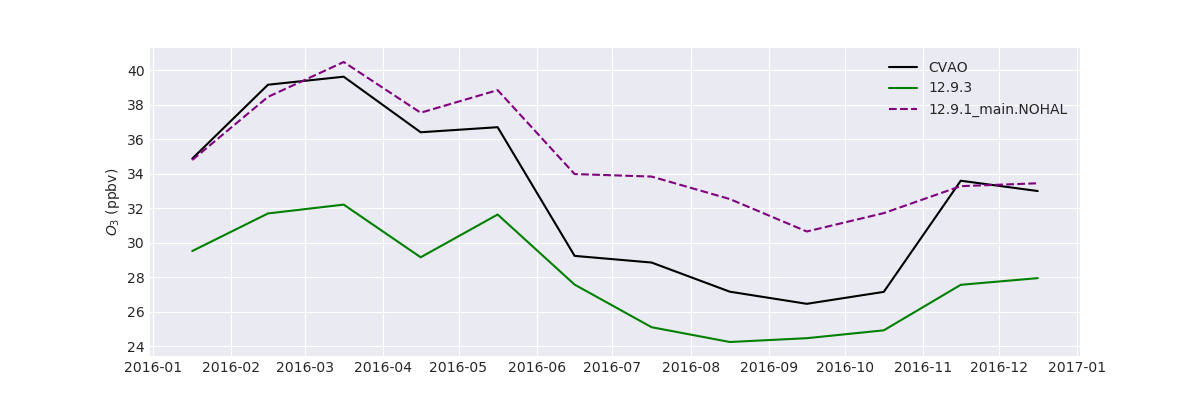
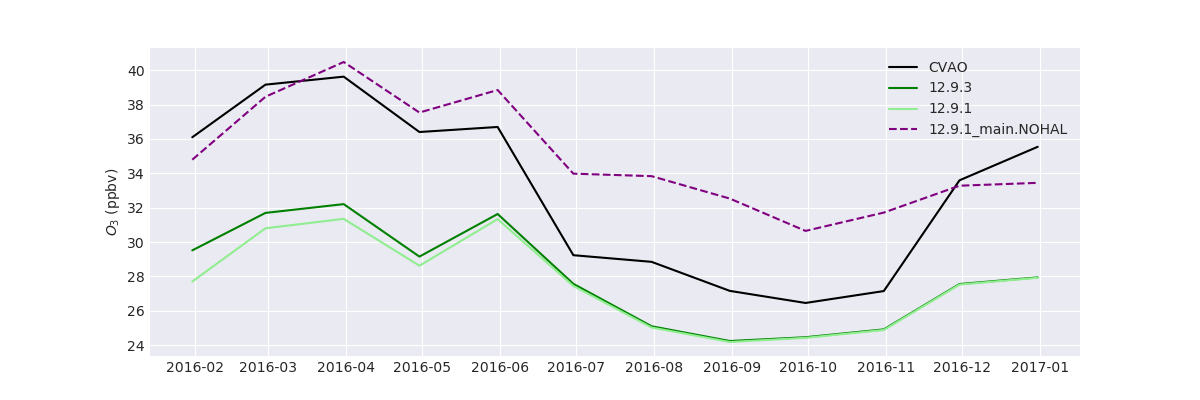
Updated nohals plots

diff --git a/nohals/timeseries_nohal.py b/nohals/timeseries_nohal.py
@@ -24,11 +24,11 @@ try:
     variable=inputs.var
     print('ok')
 except:
-    variable='ClO'
+    variable='O3'
 version='12.9.3'
 
 var, lat, lon, lev, time = GC.get_gc_var(rundir='tropchem_merra_4x5', variable=variable,year='2016')
-
+T91, lat,lon,lev,Ttime = GC.get_gc_var(rundir='tropchem_merra_4x5', variable=variable, version='12.9.1',year='2016')
 nohal, lat,lon,lev,haltime = GC.get_gc_var(rundir='tropchem_merra_4x5', variable=variable, version='geos-chem',year='2016')
 
 delta,interval=GC.find_timestep(time)
@@ -36,24 +36,34 @@ y = rp.find_nearest(lat, 16.9)
 x = rp.find_nearest(lon, -24.9)
 print(lon[x], lat[y])
 
-var_time=[] ; nohal_time=[] ; var1=[]
+var_time=[] ; nohal_time=[] ; T91_time=[] ; var1=[]
 for t in range(len(time)):
     v=var[t,0,y,x]
     var_time.append(v)
+
+for t in range(len(Ttime)):
+    v=T91[t,0,y,x]
+    T91_time.append(v)
 
 for t in range(len(haltime)):
     v=nohal[t,0,y,x]
     nohal_time.append(v)
 
 gc=pd.DataFrame({'Value':var_time}, index=time)
+T91=pd.DataFrame({'Value':T91_time}, index=Ttime)
 nohal=pd.DataFrame({'Value':nohal_time}, index=haltime)
 
 print(gc)
+print(T91)
 print(nohal)
+gc=gc.resample('M').mean()
+T91=T91.resample('M').mean()
+nohal=nohal.resample('M').mean()
 
 
 ## Get Merge observations
 try:
+    print('here')
     df=CV.get_from_merge(d[variable])
     df=df[gc.index[0]:gc.index[-1]]
     df=df.resample(delta).mean()
@@ -61,17 +71,19 @@ try:
     f,ax= plt.subplots(figsize=(12,4))
     ax.plot(gc.index, df.Value, 'k', label='CVAO')
     ax.plot(gc.index, gc.Value, 'g', label='12.9.3')
+    ax.plot(gc.index, T91.Value, 'lightgreen', label='12.9.1')
     ax.plot(gc.index, nohal.Value, 'purple',linestyle='--', label='12.9.1_main.NOHAL')
     plt.ylabel('%s (%s)' % (d[variable]['abbr'], d[variable]['unit']) )
 
     plt.gca().xaxis.set_major_locator(mdates.MonthLocator(interval=1))
-
+    print('here')
     plt.legend()
     plt.savefig('./plots/timeseries_%s.png' %variable )
 
 except:
     f,ax= plt.subplots(figsize=(12,4))
     ax.plot(gc.index, gc.Value, 'g', label='12.9.3')
+    ax.plot(gc.index, T91.Value, 'lightgreen', label='12.9.1')
     ax.plot(gc.index, nohal.Value, 'purple',linestyle='--', label='12.9.1_main.NOHAL')
     plt.ylabel('%s'  %variable ) #' % (d[variable]['abbr'], d[variable]['unit']) )
 

diff --git a/postprocess/HEMCO_Diag.py b/postprocess/HEMCO_Diag.py
@@ -21,7 +21,7 @@ from CVAO_dict import CVAO_dict as d
 import RowPy as rp
 import GC_tools as GC
 
-rundir='old_ceds_tropchem_merra_4x5'
+rundir='boundary_conds_run'
 version='12.9.3'
 variables=['EmisCO_BioBurn', 'EmisCO_Total']
 
@@ -31,13 +31,13 @@ times=[]
 
 
 #emissions, time, lat, lon, lev, area = GC.HEMCO_Diag_read(rundir='tropchem_merra_4x5', version=version,variable='EmisCO_Total')
-old_emissions, time, lat, lon, lev, area = GC.HEMCO_Diag_read(rundir='old_ceds_tropchem_merra_4x5', version=version,variable='EmisCO_Total')
-print(emissions.sum())
-print(old_emissions.sum())
+#old_emissions, time, lat, lon, lev, area = GC.HEMCO_Diag_read(rundir=rundir, version=version,variable='EmisCO_Total')
+#print(emissions.sum())
+#print(old_emissions.sum())
 
-sys.exit()
+#sys.exit()
 
-for infile in sorted(glob.glob('/users/mjr583/scratch/GC/%s/rundirs/%s/OutputDir/HEMCO_diag*.nc' % (version, rundir))):
+for infile in sorted(glob.glob('/users/mjr583/scratch/GC/%s/rundirs/%s/OutputDir/HEMCO_diagnostics.201701010000.nc' % (version, rundir))):
     fh=Dataset(infile)
     time=fh.variables['time'][:]
     lat=fh.variables['lat'][:]
@@ -111,15 +111,15 @@ for var in names:
             continue
         plt.scatter(df[str(year)].index.month, df.Value[str(year)], label=str(year))
     plt.legend()
-    plt.savefig('./test.png')
-    plt.close()
-    sys.exit()
+    #plt.savefig('./test.png')
+    #plt.close()
+    #sys.exit()
 
 
     f,ax= plt.subplots(figsize=(12,4))
     ax.plot(times, ems, 'orchid', label=long_name)
     plt.ylabel(unit)
     plt.legend()
-    #plt.savefig('/users/mjr583/scratch/GC/%s/%s/emissions/%s.png' % (version, rundir, long_name) )
+    plt.savefig('./plots/%s_%s.png' % (rundir, long_name) )
     plt.close()
 

diff --git a/interhemispheric_mixing/boundaryconds_timeseries.py b/interhemispheric_mixing/boundaryconds_timeseries.py
@@ -39,7 +39,7 @@ variables=['CO','O3','C2H6','NO2','NO']
 labels=['Control','No BB','No African BB']
 bc = '/users/mjr583/scratch/GC/12.9.3/rundirs/irma_025x03125/GC_BC/'
 bc_nobb = '/users/mjr583/scratch/GC/12.9.3/rundirs/irma_025x03125_noBB/GC_BC/'
-bc_noaf = '/users/mjr583/scratch/GC/12.9.3/rundirs/irma_025x03125_noAfrBB/GC_BC/'
+bc_noaf = '/users/mjr583/scratch/GC/12.9.3/rundirs/irma_025x03125_noAfBB/GC_BC/'
 
 x = -24.9
 y = 16.9
@@ -48,7 +48,7 @@ CO=[] ; times=[]
 for var in variables:
     print(var)
     CO=[] ; times=[]
-    for infile in sorted(glob.glob('%s*Boundary*201708*z.nc4' %bc)):
+    for infile in sorted(glob.glob('%s*Boundary*201708*control.nc4' %bc)):
         print(infile)
         fh=Dataset(infile)
         co = fh.variables['SpeciesBC_%s' %var][:]*1e9
@@ -72,7 +72,7 @@ for var in variables:
     df=pd.DataFrame({'BC_CO':CO}, index=time)
 
     CO=[] ; times=[]
-    for infile in sorted(glob.glob('%s*Boundary*201708*B.nc4' %bc_nobb)):
+    for infile in sorted(glob.glob('%s*Boundary*201708*NOBB.nc4' %bc_nobb)):
         print(infile)
         fh=Dataset(infile)
         co = fh.variables['SpeciesBC_%s' %var][:]*1e9
@@ -87,7 +87,7 @@ for var in variables:
     nobb=pd.DataFrame({'BC_CO':CO}, index=time)  
 
     CO=[] ; times=[]
-    for infile in sorted(glob.glob('%s*Boundary*201708*B.nc4' %bc_noaf)):
+    for infile in sorted(glob.glob('%s*Boundary*201708*noAfBB.nc4' %bc_noaf)):
         print(infile)
         fh=Dataset(infile)
         co = fh.variables['SpeciesBC_%s' %var][:]*1e9

diff --git a/interhemispheric_mixing/bc_maps.py b/interhemispheric_mixing/bc_maps.py
@@ -26,18 +26,18 @@ rgb_WhGrYlRd = np.genfromtxt('/users/mjr583/python_lib/colormaps/WhGrYlRd.txt',
 WhGrYlRd = mcolors.ListedColormap(rgb_WhGrYlRd/255.0)
 cmap=WhGrYlRd
 
-variable='CO'
-out='first'
+variable='C2H6'
+out='newcontrol'
 
-control_bc, lat, lon, lev, time = GC.get_gc_bc('irma_025x03125', var='CO')
+control_bc, lat, lon, lev, time = GC.get_gc_bc('irma_025x03125', var=variable)
 fltr=np.where(control_bc < 0.)
 control_bc[fltr] = np.nan
 
-nobb_bc, lat, lon, lev, notime = GC.get_gc_bc('irma_025x03125_noBB', 'CO')
+nobb_bc, lat, lon, lev, notime = GC.get_gc_bc('irma_025x03125_noBB', variable)
 fltr=np.where(nobb_bc < 0.)
 nobb_bc[fltr] = np.nan
 
-noaf_bc, lat, lon, lev, aftime = GC.get_gc_bc('irma_025x03125_noAfBB', 'CO')
+noaf_bc, lat, lon, lev, aftime = GC.get_gc_bc('irma_025x03125_noAfBB', variable)
 fltr=np.where(noaf_bc < 0.)
 noaf_bc[fltr] = np.nan
 
@@ -69,5 +69,5 @@ ax3.set_title('No biomass burning')
 
 plt.suptitle('GC Boundary Conditions')
 
-plt.savefig('/users/mjr583/GC/interhemispheric_mixing/plots/mapGC_BC_%s.png' %out) 
+plt.savefig('/users/mjr583/GC/interhemispheric_mixing/plots/mapGC_BC_%s_%s.png' %(variable, out)) 
 plt.close()

diff --git a/postprocess/plot_HEMCO_diag.py b/postprocess/plot_HEMCO_diag.py
@@ -1,0 +1,30 @@
+
+import numpy as np
+import pandas as pd
+import matplotlib.pyplot as plt
+import matplotlib
+matplotlib.use('agg')
+from matplotlib.colors import LogNorm
+import sys
+sys.path.append('/users/mjr583/python_lib')
+from CVAO_dict import CVAO_dict as d
+import RowPy as rp
+import GC_tools as GC
+
+rundir='boundary_conds_run'
+variable='EmisCO_BioBurn'
+date='201701010000'
+
+ems, times, lat, lon, lev, area = GC.HEMCO_Diag_read(rundir, variable=variable, date=date)
+ems=ems[0]
+
+X,Y = np.meshgrid(lon,lat)
+f, ax = plt.subplots()
+m=rp.get_basemap(ax=ax)
+
+im=ax.pcolormesh(X,Y,ems, norm=LogNorm())
+cbar = f.colorbar(im,orientation='horizontal')
+cbar.ax.set_xlabel('variable')
+
+plt.savefig('./test.png')
+plt.close()

diff --git a/nohals/speciesconc_maps.py b/nohals/speciesconc_maps.py
@@ -26,7 +26,7 @@ rgb_WhGrYlRd = np.genfromtxt('/users/mjr583/python_lib/colormaps/WhGrYlRd.txt',
 WhGrYlRd = mcolors.ListedColormap(rgb_WhGrYlRd/255.0)
 cmap=WhGrYlRd
 
-variable='NO2'
+variable='O3'
 
 for n in range(12):
     control, lat, lon, lev, time = GC.get_gc_var('tropchem_merra_4x5', variable=variable, version='12.9.3', year=2016)
